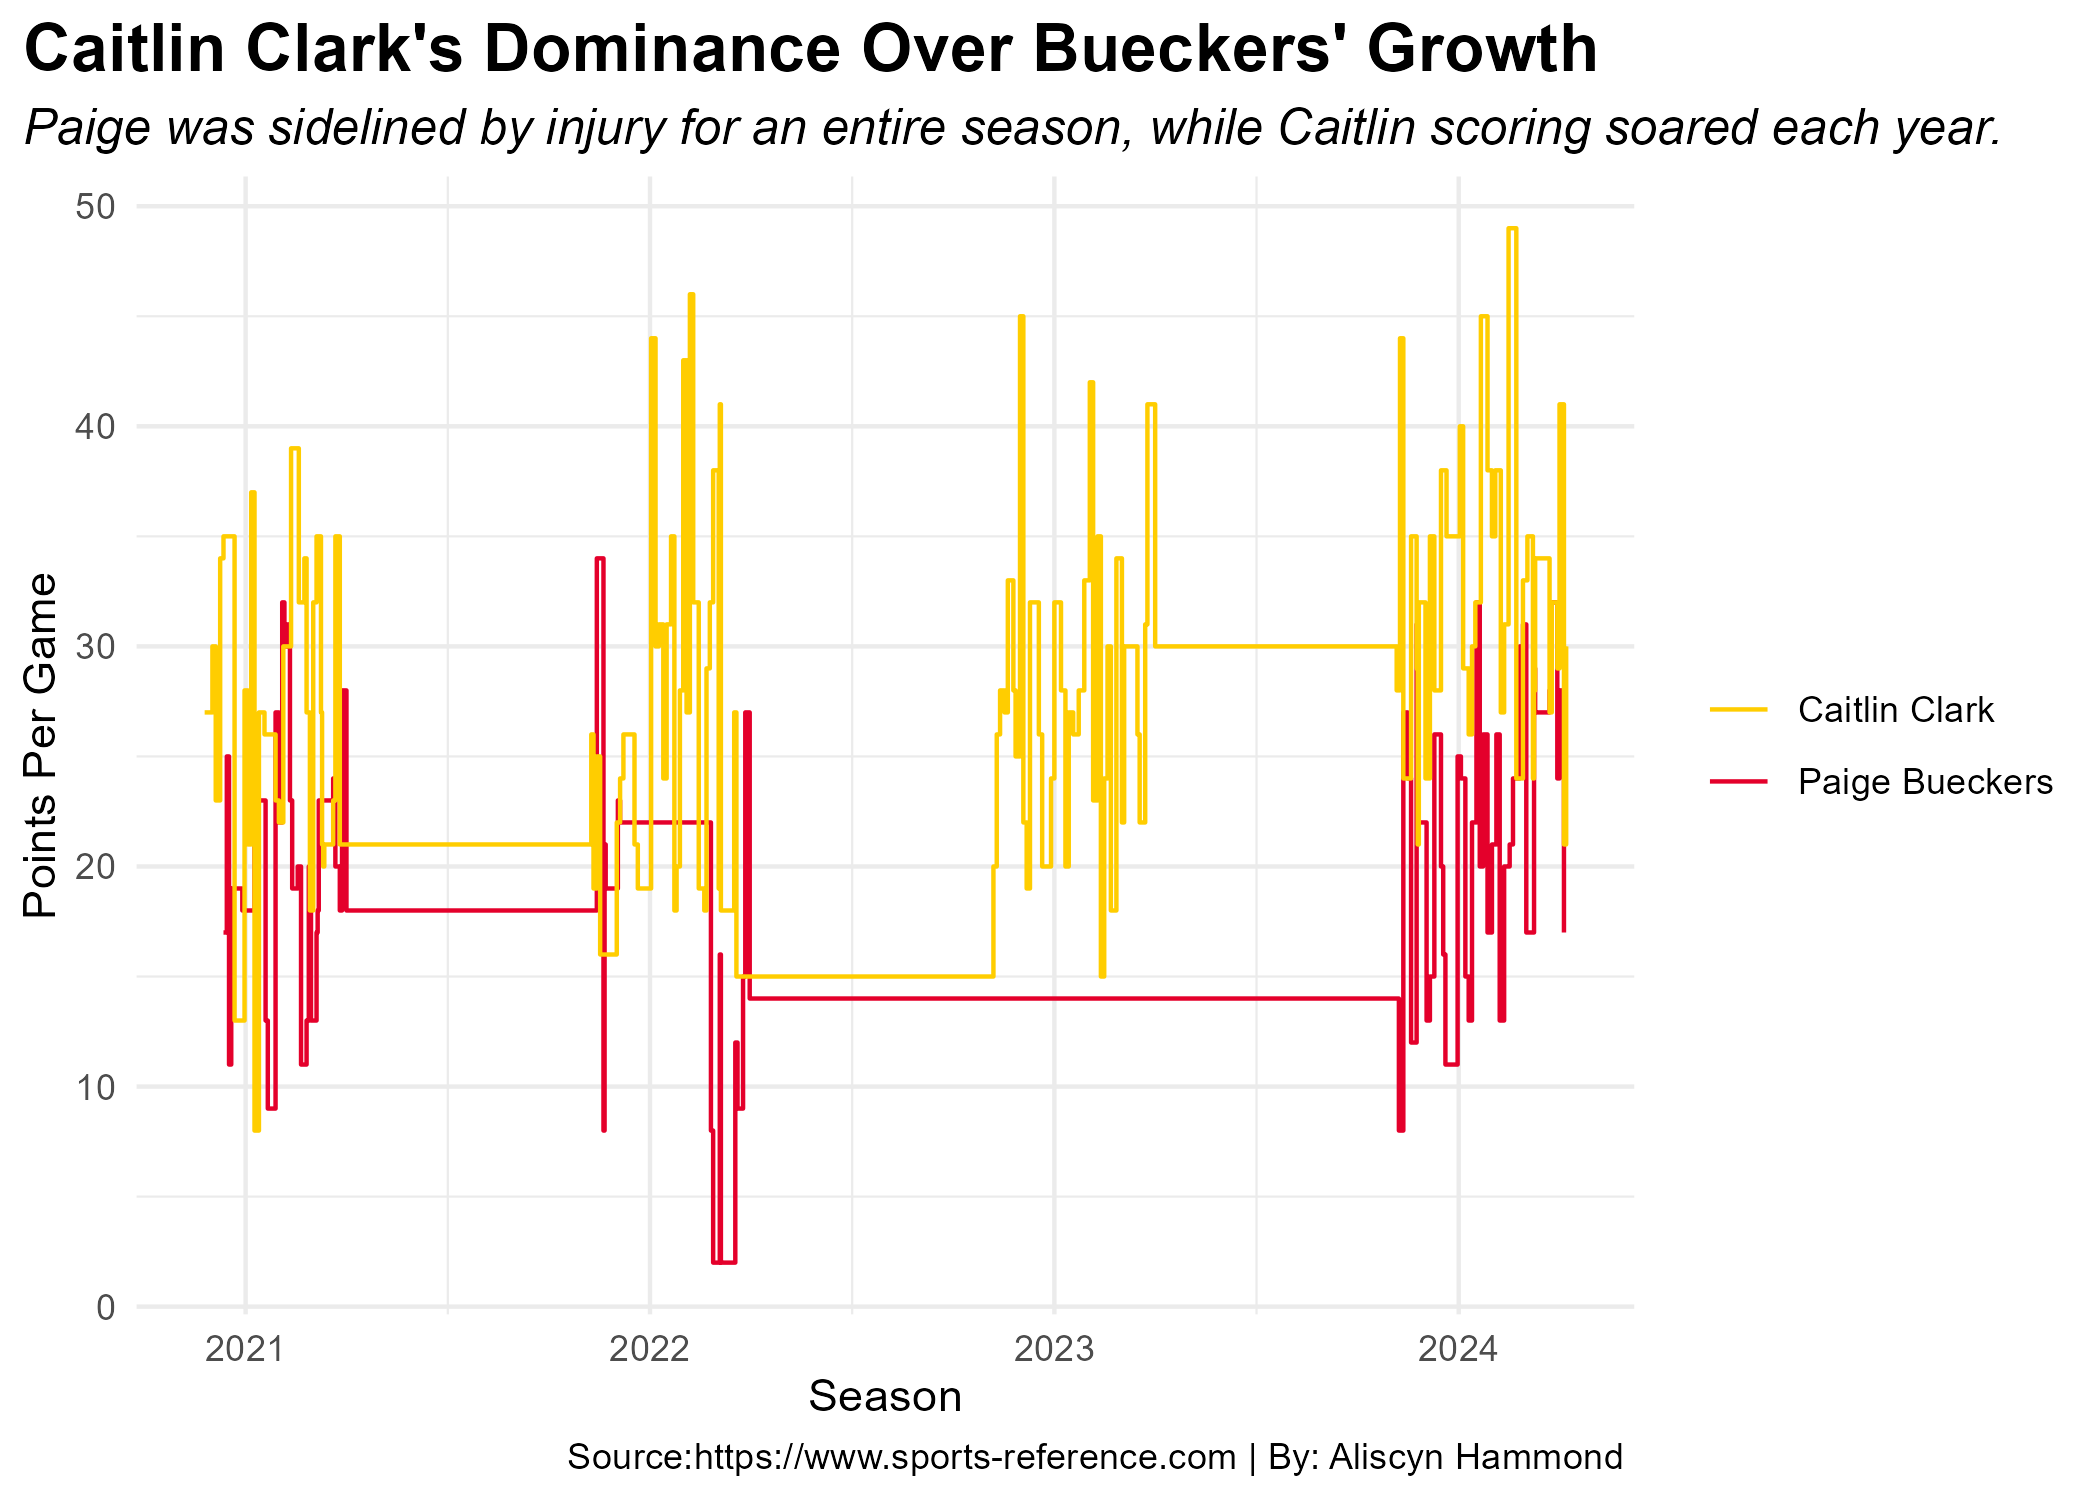
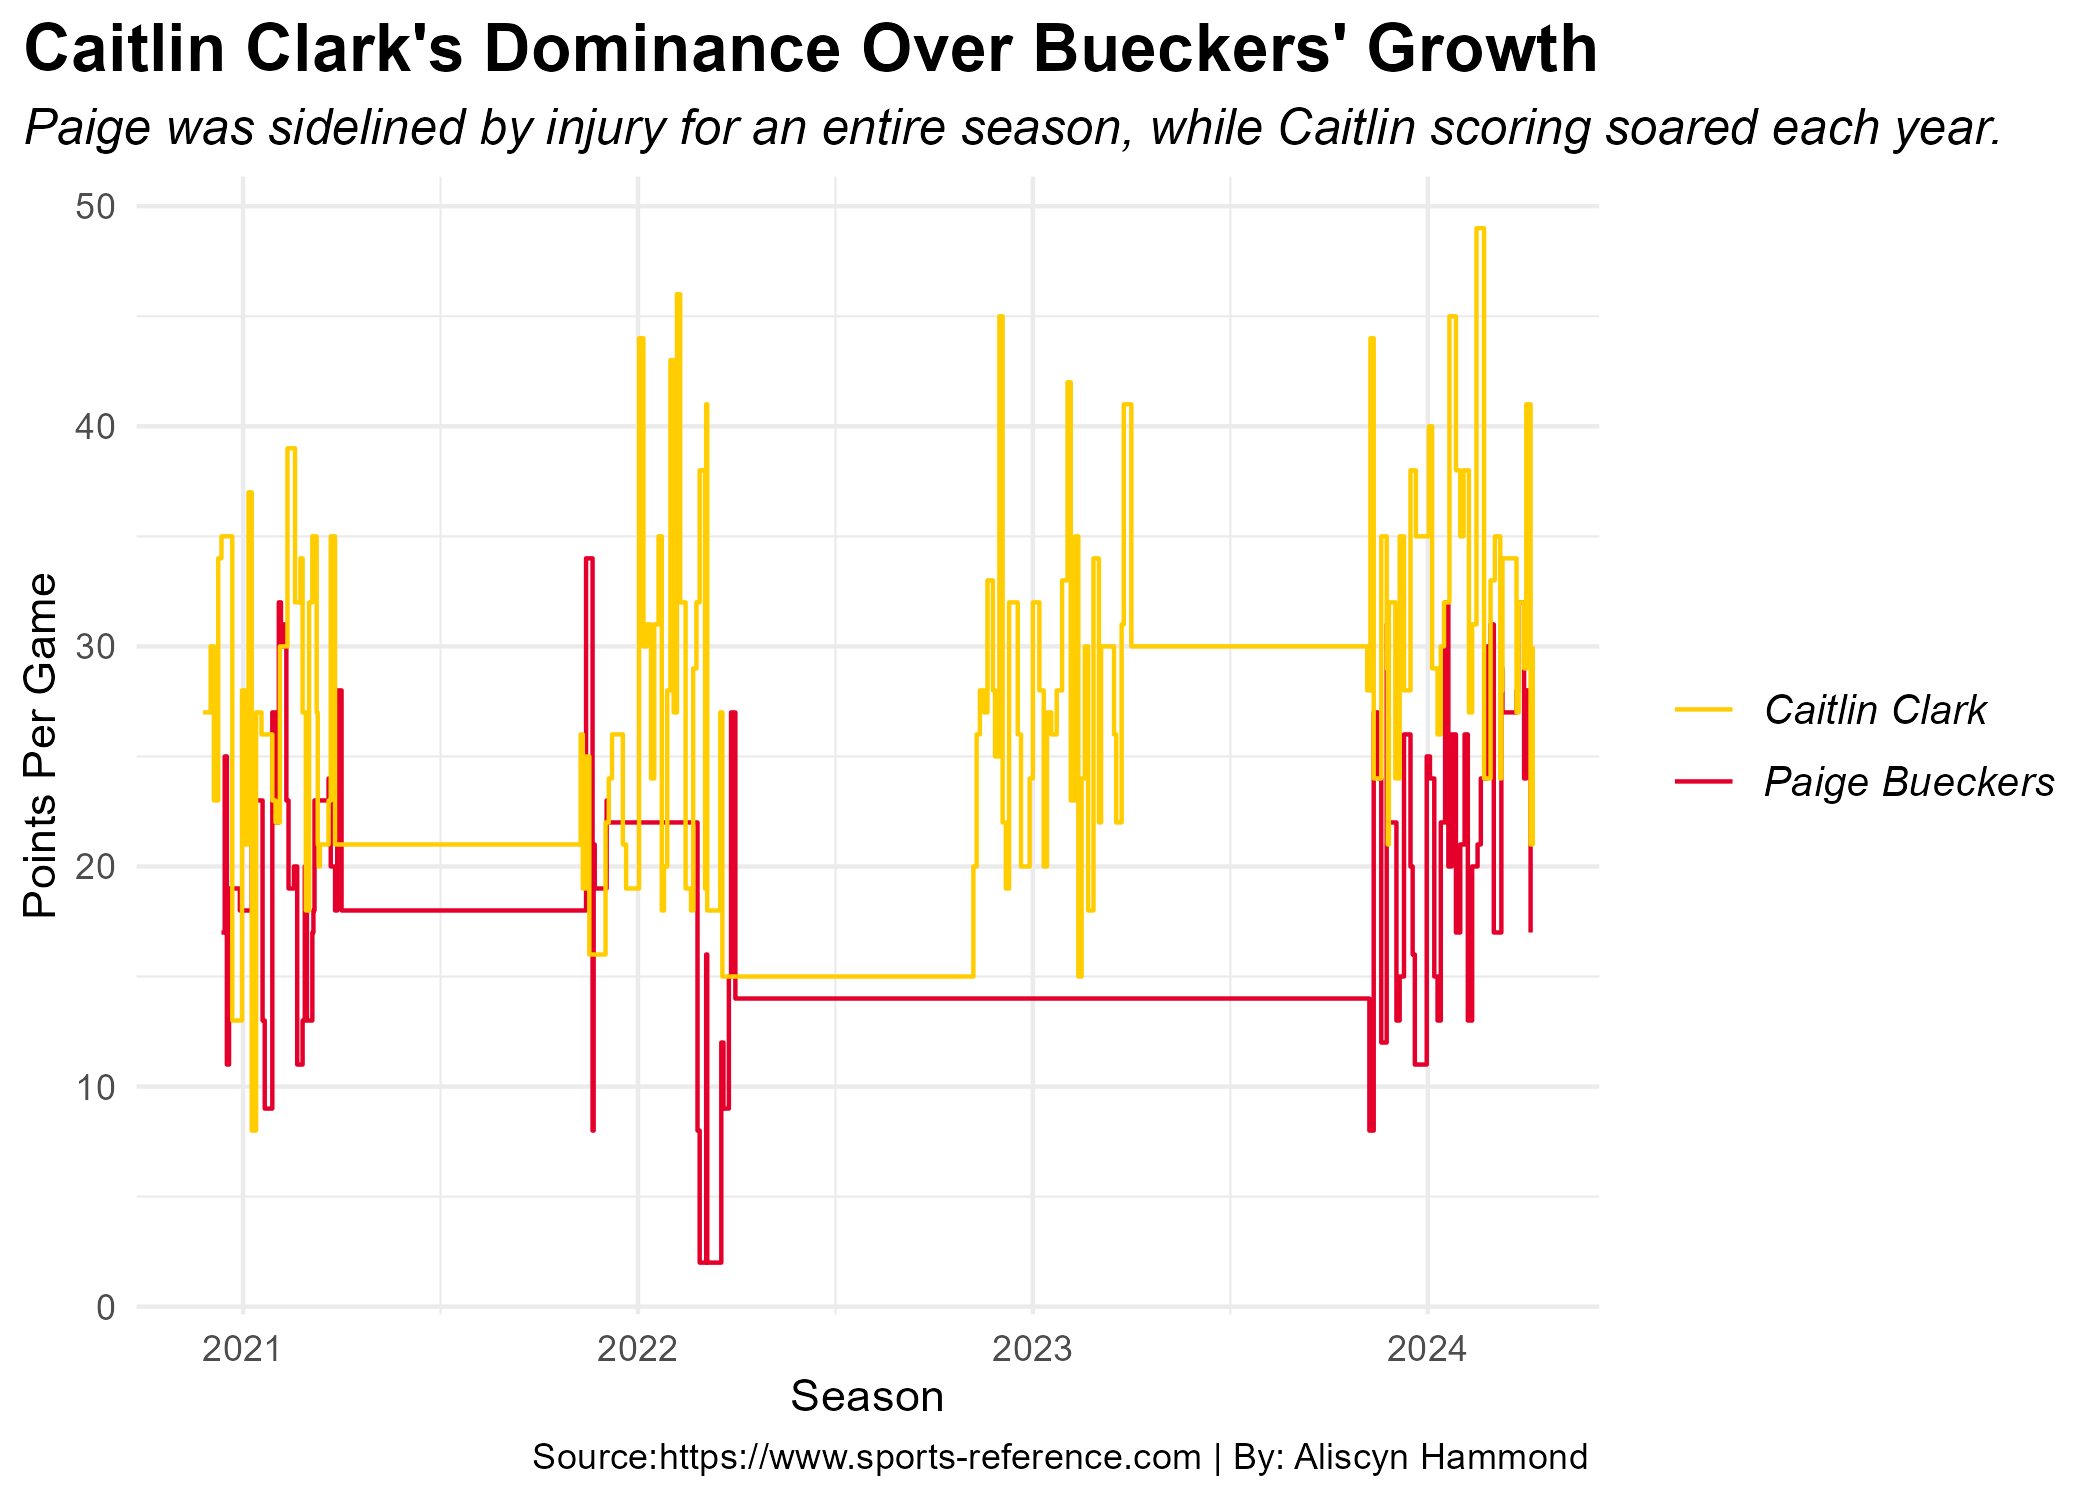
fixed some graphs

diff --git a/posts/paige_caitlin_basketball/index.html b/posts/paige_caitlin_basketball/index.html
@@ -236,8 +236,9 @@ pre > code.sourceCode > span > a:first-child::before { text-decoration: underlin
 <span id="cb1-32"><a href="#cb1-32" aria-hidden="true" tabindex="-1"></a>    <span class="at">axis.title.y =</span> <span class="fu">element_text</span>(<span class="at">size =</span> <span class="dv">11</span>),</span>
 <span id="cb1-33"><a href="#cb1-33" aria-hidden="true" tabindex="-1"></a>    <span class="at">plot.title.position =</span> <span class="st">"plot"</span>,</span>
 <span id="cb1-34"><a href="#cb1-34" aria-hidden="true" tabindex="-1"></a>    <span class="at">plot.subtitle.position =</span> <span class="st">"plot"</span>,</span>
-<span id="cb1-35"><a href="#cb1-35" aria-hidden="true" tabindex="-1"></a>    <span class="at">legend.title =</span> <span class="fu">element_blank</span>()</span>
-<span id="cb1-36"><a href="#cb1-36" aria-hidden="true" tabindex="-1"></a>  )</span></code><button title="Copy to Clipboard" class="code-copy-button"><i class="bi"></i></button></pre></div>
+<span id="cb1-35"><a href="#cb1-35" aria-hidden="true" tabindex="-1"></a>    <span class="at">legend.title =</span> <span class="fu">element_blank</span>(),</span>
+<span id="cb1-36"><a href="#cb1-36" aria-hidden="true" tabindex="-1"></a>    <span class="at">legend.text =</span> <span class="fu">element_text</span>(<span class="at">size =</span> <span class="dv">10</span>,<span class="at">face=</span><span class="st">"italic"</span>)</span>
+<span id="cb1-37"><a href="#cb1-37" aria-hidden="true" tabindex="-1"></a>  )</span></code><button title="Copy to Clipboard" class="code-copy-button"><i class="bi"></i></button></pre></div>
 </details>
 <div class="cell-output-display">
 <div>

diff --git a/index.html b/index.html
@@ -210,7 +210,7 @@ window.Quarto = {
 
 <div class="quarto-listing quarto-listing-container-default" id="listing-listing">
 <div class="list quarto-listing-default">
-<div class="quarto-post image-right" data-index="0" data-categories="YmFza2V0YmFsbCx3b21lbiBzcG9ydHMsY29sbGVnZSBzcG9ydHM=" data-listing-date-sort="1733724000000" data-listing-file-modified-sort="1733547385345" data-listing-date-modified-sort="NaN" data-listing-reading-time-sort="5" data-listing-word-count-sort="931">
+<div class="quarto-post image-right" data-index="0" data-categories="YmFza2V0YmFsbCx3b21lbiBzcG9ydHMsY29sbGVnZSBzcG9ydHM=" data-listing-date-sort="1733724000000" data-listing-file-modified-sort="1733547596734" data-listing-date-modified-sort="NaN" data-listing-reading-time-sort="5" data-listing-word-count-sort="939">
 <div class="thumbnail">
 <p><a href="./posts/paige_caitlin_basketball/index.html" class="no-external"></a></p><a href="./posts/paige_caitlin_basketball/index.html" class="no-external">
 <p><img loading="lazy" src="./posts/paige_caitlin_basketball/image.png" class="thumbnail-image"></p>
